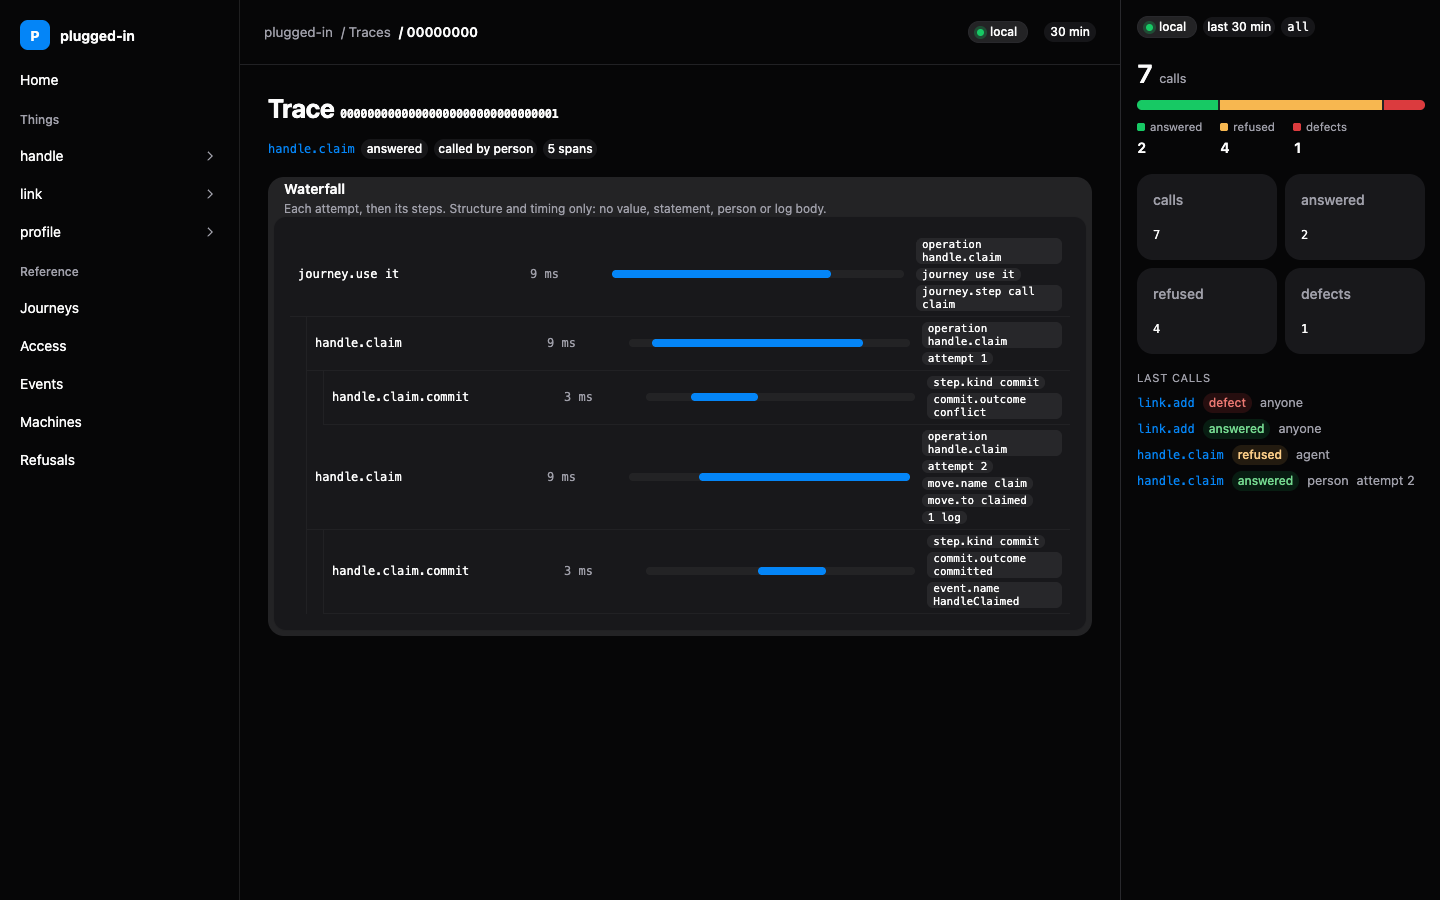
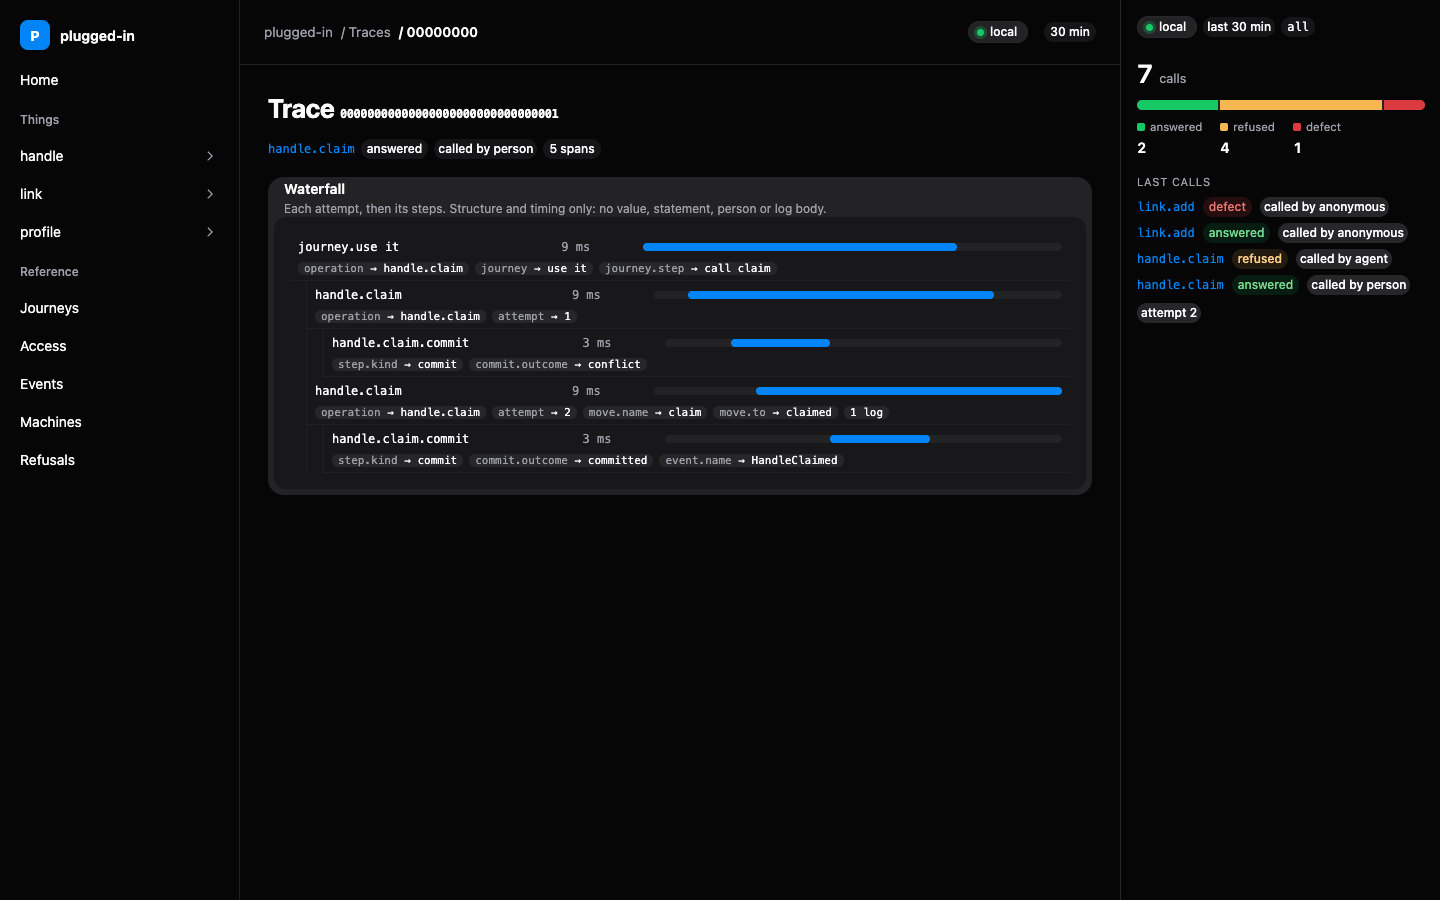
M1.13: review fixes: one meter in the rail, pluralised counts, caller kind and attempt chips, one logbook line, no-proof chips, rendered docs, key-to-value trace attributes, new screenshots

diff --git a/packages/portal/src/modules/pages/internal/home.tsx b/packages/portal/src/modules/pages/internal/home.tsx
@@ -9,7 +9,7 @@ import { Frame } from "./frame.tsx";
 import { Lifecycle } from "./lifecycle.tsx";
 import { link } from "./links.ts";
 import { Banner, noteOf, ProofCell, proofOf } from "./proof.tsx";
-import { none, operationsOf, statOf, statOfAll } from "./stats.ts";
+import { none, operationsOf, plural, statOf, statOfAll } from "./stats.ts";
 
 const who = (op: OperationWire): string =>
   op.allowed.map((a) => (a.kind === "anyone" ? "anyone" : a.kind === "signed-in" ? "anyone signed in" : `${a.kind} ${a.role ?? ""}${a.path === undefined ? "" : ` of its ${a.path}`}`.trim())).join(", or ");
@@ -17,13 +17,20 @@ const who = (op: OperationWire): string =>
 export const Home = ({ data, snapshot }: { readonly data: PageData; readonly snapshot: PortalSnapshot }): ReactElement => {
   const { blueprint, view } = data;
   const release = snapshot.release.state === "available" && snapshot.release.value !== null ? `Released ${snapshot.release.value.version} at ${snapshot.release.value.revision}.` : "";
+  const notesOf = (name: string): ReadonlyArray<string> => snapshot.environments.flatMap((env) => { const p = proofOf(snapshot, name, env); return p === undefined || p.state === "unavailable" ? [] : [noteOf(p, snapshot.candidate.revision)]; }).filter((n) => n !== "");
+  const distinct = new Set(snapshot.operations.flatMap(notesOf));
   const rows = snapshot.operations.map((name) => ({ name, op: blueprint.model.operations[name], s: view?.byOperation[name] ?? none }));
   return (
     <Frame data={data} title="Home" here={{ id: "home" }} crumbs={[blueprint.project, "Home"]} scope={{ id: "all", operations: "all", stat: statOfAll(view) }}>
       <div className="page">
         <header className="page-title">
           <h1>{blueprint.project}</h1>
-          <p className="small">Bundle {snapshot.bundleRevision ?? "unknown"}. Judged against {snapshot.candidate.revision ?? "unknown"} ({snapshot.candidate.source === "logbook" ? "newest revision proved in test" : "this bundle's own model"}). {release} Ledger read: {snapshot.consistency}.</p>
+          <p className="small">{[
+            snapshot.bundleRevision === null ? "Bundle revision not reported." : `Bundle ${snapshot.bundleRevision}.`,
+            snapshot.candidate.revision === null ? "" : `Judged against ${snapshot.candidate.revision} (${snapshot.candidate.source === "logbook" ? "newest revision proved in test" : "this bundle's own model"}).`,
+            release,
+            snapshot.consistency === "checked" ? "Ledger read: checked." : "",
+          ].filter((t) => t !== "").join(" ")}</p>
         </header>
         <Banner snapshot={snapshot} />
         <section className="cards" aria-label="Things">
@@ -34,7 +41,7 @@ export const Home = ({ data, snapshot }: { readonly data: PageData; readonly sna
                 <Widget className={s.defects > 0 ? "thing-card is-red" : "thing-card"}>
                   <Widget.Header>
                     <div className="head-text"><Widget.Title><a href={link.thing(thing.name)}>{thing.name}</a></Widget.Title><Widget.Description>{thing.description || "No description declared."}</Widget.Description></div>
-                    {s.defects > 0 && <Chip size="sm" variant="soft" color="danger">{s.defects} defects</Chip>}
+                    {s.defects > 0 && <Chip size="sm" variant="soft" color="danger">{plural(s.defects, "defect")}</Chip>}
                   </Widget.Header>
                   <Widget.Content>
                     <Lifecycle thing={thing} view={view} compact />
@@ -47,6 +54,7 @@ export const Home = ({ data, snapshot }: { readonly data: PageData; readonly sna
         </section>
         <section>
           <h2 className="group-title">Operations</h2>
+          {distinct.size === 1 && <p className="small muted">{[...distinct][0]}</p>}
           <p className="muted small">Every operation: who may call it, its calls in the window, and the proof the logbook holds for each environment.</p>
           <Grid
             aria-label="Operations"
@@ -60,8 +68,8 @@ export const Home = ({ data, snapshot }: { readonly data: PageData; readonly sna
                 { id: "refused", header: "Refused", width: 90, align: "end" as const, cell: (r: (typeof rows)[number]) => <span className={r.s.refused > 0 ? "mono tone-warning" : "mono"}>{r.s.refused}</span> },
                 { id: "defects", header: "Defects", width: 90, align: "end" as const, cell: (r: (typeof rows)[number]) => <span className={r.s.defects > 0 ? "mono tone-danger" : "mono"}>{r.s.defects}</span> },
               ]),
-              ...snapshot.environments.map((env) => ({ id: `env:${env}`, header: env, minWidth: 130, cell: (r: (typeof rows)[number]) => <ProofCell proof={proofOf(snapshot, r.name, env)} /> })),
-              { id: "notes", header: "Notes", minWidth: 200, cell: (r: (typeof rows)[number]) => <span className="small muted">{snapshot.environments.map((env) => proofOf(snapshot, r.name, env)).flatMap((p) => (p === undefined ? [] : [noteOf(p, snapshot.candidate.revision)])).filter((n) => n !== "").join(" · ")}</span> },
+              ...snapshot.environments.map((env) => ({ id: `env:${env}`, header: `Proof in ${env}`, minWidth: 130, cell: (r: (typeof rows)[number]) => <ProofCell proof={proofOf(snapshot, r.name, env)} /> })),
+              ...(distinct.size > 1 ? [{ id: "notes", header: "Notes", minWidth: 200, cell: (r: (typeof rows)[number]) => <span className="small muted">{notesOf(r.name).join(" · ")}</span> }] : []),
             ]}
           />
         </section>

diff --git a/packages/portal/src/modules/pages/internal/rail.tsx b/packages/portal/src/modules/pages/internal/rail.tsx
@@ -1,8 +1,8 @@
-// The live rail, scoped to the page (design/portal.md, "The live rail"): the window's four counts from `ortho.calls`, and the last calls
-// from the source, one row per trace. Numbers as data in stat blocks, never as a sentence. No window, no numbers.
-import { CallsMeter, Chip, EnvironmentPill, Stat } from "@orthograph/portal-ui";
+// The live rail, scoped to the page (design/portal.md, "The live rail"): the window's counts from `ortho.calls` in one stacked meter
+// (whose numbers carry the data hooks), and the last calls from the source, one row per trace. No window, no numbers.
+import { CallsMeter, Chip, EnvironmentPill } from "@orthograph/portal-ui";
 import type { ReactElement } from "react";
-import type { CallStat, WindowView } from "#modules/window/types.js";
+import type { CallStat, CallerKind, WindowView } from "#modules/window/types.js";
 import { link } from "./links.ts";
 import { minutes } from "./stats.ts";
 
@@ -14,7 +14,9 @@ export interface Scope {
 }
 
 const outcomeTone = { answered: "success", refused: "warning", defect: "danger" } as const;
-const stats = (s: CallStat): ReadonlyArray<readonly [string, number]> => [["calls", s.calls], ["answered", s.answered], ["refused", s.refused], ["defects", s.defects]];
+
+/** Who called, in the words of the page: the derived kind, with `anyone` (the rule that allows it) read as an anonymous caller. */
+export const callerLabel = (kind: CallerKind): string => (kind === "anyone" ? "anonymous" : kind);
 
 export const Rail = ({ view, scope }: { readonly view: WindowView | undefined; readonly scope: Scope }): ReactElement => {
   if (view === undefined) return <div className="rail" data-portal="rail" data-scope={scope.id}><p className="muted small">No live source is wired to this portal, so there are no numbers to show.</p></div>;
@@ -22,14 +24,7 @@ export const Rail = ({ view, scope }: { readonly view: WindowView | undefined; r
   return (
     <div className="rail" data-portal="rail" data-scope={scope.id}>
       <div className="rail-head"><EnvironmentPill name={view.environment} live size="sm" /><Chip size="sm" variant="soft">last {minutes(view.windowMs)}</Chip><Chip size="sm" variant="soft" className="mono">{scope.id}</Chip></div>
-      <CallsMeter split={{ answered: scope.stat.answered, refused: scope.stat.refused, defects: scope.stat.defects }} label={scope.id} />
-      <div className="rail-stats">
-        {stats(scope.stat).map(([name, value]) => (
-          <div key={name} data-portal="stat" data-stat={name} data-value={String(value)}>
-            <Stat><Stat.Header><Stat.Title>{name}</Stat.Title></Stat.Header><Stat.Content><span className="mono">{value.toLocaleString("en-US")}</span></Stat.Content></Stat>
-          </div>
-        ))}
-      </div>
+      <CallsMeter hooks split={{ answered: scope.stat.answered, refused: scope.stat.refused, defects: scope.stat.defects }} label={scope.id} />
       <div>
         <div className="eyebrow">last calls</div>
         {calls.length === 0 && <p className="muted small">No calls in the window.</p>}
@@ -38,8 +33,8 @@ export const Rail = ({ view, scope }: { readonly view: WindowView | undefined; r
             <li key={c.trace} data-portal="last-call" data-trace={c.trace} data-operation={c.operation} data-outcome={c.outcome} data-caller-kind={c.callerKind} data-attempts={String(c.attempts)}>
               <a className="mono" href={link.trace(c.trace)}>{c.operation}</a>
               <Chip size="sm" variant="soft" color={outcomeTone[c.outcome]}>{c.outcome}</Chip>
-              <span className="small muted">{c.callerKind}</span>
-              {c.attempts > 1 && <span className="small muted">attempt {c.attempts}</span>}
+              <Chip size="sm" variant="secondary">called by {callerLabel(c.callerKind)}</Chip>
+              {c.attempts > 1 && <Chip size="sm" variant="secondary">attempt {c.attempts}</Chip>}
             </li>
           ))}
         </ul>

diff --git a/packages/portal/src/modules/pages/internal/trace.tsx b/packages/portal/src/modules/pages/internal/trace.tsx
@@ -7,7 +7,8 @@ import type { WindowSpan, WindowTrace } from "#modules/window/types.js";
 import type { PageData } from "../types.ts";
 import { Frame } from "./frame.tsx";
 import { link } from "./links.ts";
-import { statOfAll } from "./stats.ts";
+import { callerLabel } from "./rail.tsx";
+import { plural, statOfAll } from "./stats.ts";
 
 /** The span attributes the portal may show: declared names, codes, kinds and counts. Everything else is dropped, not hidden. */
 const SHOWN = ["operation", "attempt", "step.kind", "commit.outcome", "move.name", "move.to", "event.name", "refusal", "refusal.code", "journey", "journey.step", "environment", "store"] as const;
@@ -26,8 +27,8 @@ const Row = ({ span, depth, attempt, logs, extent }: { readonly span: WindowSpan
       <span className="mono muted">{span.ms} ms</span>
       <span className="wf-bar" aria-hidden="true"><i className={outcome === "ok" ? undefined : `is-${outcome}`} style={{ left: `${left}%`, width: `${Math.min(width, 100 - left)}%` }} /></span>
       <span className="wf-attrs">
-        {SHOWN.filter((k) => span.attrs[k] !== undefined && typeof span.attrs[k] !== "object").map((k) => <span key={k} className="wf-attr">{k} {String(span.attrs[k])}</span>)}
-        {logs > 0 && <span className="wf-attr">{logs} {logs === 1 ? "log" : "logs"}</span>}
+        {SHOWN.filter((k) => span.attrs[k] !== undefined && typeof span.attrs[k] !== "object").map((k) => <span key={k} className="wf-attr"><span className="wf-key">{k}</span> → {String(span.attrs[k])}</span>)}
+        {logs > 0 && <span className="wf-attr">{plural(logs, "log")}</span>}
       </span>
     </div>
   );
@@ -57,8 +58,8 @@ export const TracePage = ({ data, id, found }: { readonly data: PageData; readon
         <header className="page-title">
           <h1>Trace <span className="mono">{id}</span></h1>
           <div className="props">
-            {call !== undefined && <><a className="mono" href={link.operation(call.operation)}>{call.operation}</a><Chip size="sm" variant="soft">{call.outcome}</Chip><Chip size="sm" variant="soft">called by {call.callerKind}</Chip></>}
-            <Chip size="sm" variant="soft">{spans.length} spans</Chip>
+            {call !== undefined && <><a className="mono" href={link.operation(call.operation)}>{call.operation}</a><Chip size="sm" variant="soft">{call.outcome}</Chip><Chip size="sm" variant="soft">called by {callerLabel(call.callerKind)}</Chip></>}
+            <Chip size="sm" variant="soft">{plural(spans.length, "span")}</Chip>
           </div>
         </header>
         <Widget>

diff --git a/packages/portal-ui/src/modules/styles/internal/ours.ts b/packages/portal-ui/src/modules/styles/internal/ours.ts
@@ -39,6 +39,8 @@ html,body{margin:0;background:var(--background,#0b0b0d)}
 .page-foot{color:var(--muted);font-size:.78rem;margin:0}
 .pill-ok{color:var(--success)}.pill-fail{color:var(--danger)}.pill-old{color:var(--warning)}.pill-none{color:var(--muted)}
 .banner{border:1px solid var(--danger);background:color-mix(in oklab,var(--danger) 12%,transparent);padding:8px 12px;border-radius:10px}
+.doc-body{font-size:.9rem;line-height:1.55;max-width:80ch}.doc-body h1{font-size:1.2rem}.doc-body h2{font-size:1rem;margin-top:1rem}.doc-body table{border-collapse:collapse}.doc-body th,.doc-body td{padding:4px 10px;border-bottom:1px solid var(--separator);text-align:left}.doc-body code{font:12px ui-monospace,Menlo,monospace}
+.no-proof{color:var(--muted)}
 pre.doc{background:var(--surface-secondary);padding:12px;border-radius:10px;overflow:auto;font-size:.8rem}
 /* EnvironmentPill */
 .env-pill{display:inline-flex;align-items:center;gap:7px;height:28px;padding:0 4px 0 10px;border-radius:999px;background:var(--surface-secondary);border:1px solid var(--border);font-size:.82rem;font-weight:500;white-space:nowrap}
@@ -88,13 +90,14 @@ pre.doc{background:var(--surface-secondary);padding:12px;border-radius:10px;over
 .wf{display:flex;flex-direction:column}
 .wf details{margin:0}
 .wf summary{list-style:none;cursor:pointer}
-.wf-row{display:grid;grid-template-columns:minmax(220px,1.2fr) 70px 2fr minmax(120px,1fr);gap:12px;align-items:center;padding:5px 8px;border-bottom:1px solid var(--separator);font-size:.82rem}
+.wf-row{display:grid;grid-template-columns:minmax(220px,1.2fr) 70px 2fr;gap:6px 12px;align-items:center;padding:5px 8px;border-bottom:1px solid var(--separator);font-size:.82rem}
 .wf-children{margin-left:16px;border-left:1px solid var(--separator)}
 .wf-bar{position:relative;height:8px;border-radius:4px;background:var(--surface-secondary)}
 .wf-bar i{position:absolute;top:0;height:100%;border-radius:4px;background:var(--accent)}
 .wf-bar i.is-refused{background:var(--warning)}.wf-bar i.is-defect{background:var(--danger)}
-.wf-attrs{display:flex;flex-wrap:wrap;gap:4px}
-.wf-attr{padding:0 6px;border-radius:6px;background:var(--default);font:11px ui-monospace,Menlo,monospace}
+.wf-attrs{grid-column:1/-1;display:flex;flex-wrap:wrap;gap:4px 6px}
+.wf-attr{white-space:nowrap;padding:0 6px;border-radius:6px;background:var(--default);font:11px ui-monospace,Menlo,monospace}
+.wf-key{color:var(--muted)}
 /* The journey sequence */
 .seq{display:block;max-width:100%;height:auto}
 .seq text{font:12px ui-monospace,Menlo,monospace;fill:var(--foreground)}

diff --git a/packages/portal-ui/src/modules/meters/internal/calls-meter.tsx b/packages/portal-ui/src/modules/meters/internal/calls-meter.tsx
@@ -8,21 +8,23 @@ const parts = [
   { key: "defects", label: "defects", tone: "danger" },
 ] as const;
 const fmt = (n: number): string => n.toLocaleString("en-US");
+const noun = (n: number, one: string, many: string): string => `${fmt(n)} ${n === 1 ? one : many}`;
 
-export const CallsMeter = ({ split, size = "md", legend = true, label }: CallsMeterProps): ReactElement => {
+export const CallsMeter = ({ split, size = "md", legend = true, label, hooks = false }: CallsMeterProps): ReactElement => {
   const total = split.answered + split.refused + split.defects;
-  const aria = `${label ?? "Calls"}: ${fmt(total)} calls, ${fmt(split.answered)} answered, ${fmt(split.refused)} refused, ${fmt(split.defects)} defects`;
+  const aria = `${label ?? "Calls"}: ${noun(total, "call", "calls")}, ${fmt(split.answered)} answered, ${fmt(split.refused)} refused, ${noun(split.defects, "defect", "defects")}`;
+  const hook = (stat: string, value: number): Record<string, string> => (hooks ? { "data-portal": "stat", "data-stat": stat, "data-value": String(value) } : {});
   return (
     <div className={`calls-meter calls-meter--${size}`} role="img" aria-label={aria}>
-      <div className="calls-meter__head"><span className="calls-meter__total">{fmt(total)}</span><span className="calls-meter__unit">calls</span></div>
+      <div className="calls-meter__head" {...hook("calls", total)}><span className="calls-meter__total">{fmt(total)}</span><span className="calls-meter__unit">{total === 1 ? "call" : "calls"}</span></div>
       <div className="calls-meter__track">
         {parts.map((p) => split[p.key] > 0 && <span key={p.key} className={`calls-meter__seg tone-bg-${p.tone}`} style={{ flexGrow: split[p.key], minWidth: 3 }} />)}
       </div>
       {legend && (
         <dl className="calls-meter__legend">
           {parts.map((p) => (
-            <div key={p.key} className={`calls-meter__item${split[p.key] > 0 ? "" : " is-zero"}`}>
-              <dt><i className={`calls-meter__key tone-bg-${p.tone}`} />{p.label}</dt>
+            <div key={p.key} className={`calls-meter__item${split[p.key] > 0 ? "" : " is-zero"}`} {...hook(p.key, split[p.key])}>
+              <dt><i className={`calls-meter__key tone-bg-${p.tone}`} />{p.key === "defects" && split.defects === 1 ? "defect" : p.label}</dt>
               <dd>{fmt(split[p.key])}</dd>
             </div>
           ))}

diff --git a/packages/portal/src/modules/pages/internal/operation.tsx b/packages/portal/src/modules/pages/internal/operation.tsx
@@ -5,6 +5,7 @@ import type { ReactElement, ReactNode } from "react";
 import type { PortalSnapshot } from "#modules/snapshot/types.js";
 import type { OperationWire } from "#modules/wire/types.js";
 import type { PageData } from "../types.ts";
+import { Doc } from "./doc.tsx";
 import { FieldTable } from "./fields.tsx";
 import { Frame } from "./frame.tsx";
 import { link } from "./links.ts";
@@ -53,7 +54,7 @@ export const OperationPage = ({ data, snapshot, op }: { readonly data: PageData;
           <table className="tbl"><thead><tr><th>Declaration</th><th>Hash</th></tr></thead><tbody>{depends.map(([key, hash]) => <tr key={key}><td className="mono">{key}</td><td className="mono">{hash}</td></tr>)}</tbody></table>
           <p><a href={link.thing(op.thing)}>{op.thing}</a></p>
         </Block>
-        {doc !== undefined && <Block title="Docs"><pre className="doc">{doc}</pre></Block>}
+        {doc !== undefined && <Block title="Docs"><Doc text={doc} /></Block>}
       </div>
     </Frame>
   );

diff --git a/packages/portal/src/modules/pages/internal/proof.tsx b/packages/portal/src/modules/pages/internal/proof.tsx
@@ -1,5 +1,6 @@
 // Proof as the portal reads it from the logbook: one cell per environment, in the words of its state. Only a recorded pass carries a
 // tick; a failure, a change and a gap read as what they are. (The proof tab and the verdict matrix are M1.13's later pass.)
+import { Chip } from "@orthograph/portal-ui";
 import type { ReactElement } from "react";
 import type { PortalProof, PortalSnapshot } from "#modules/snapshot/types.js";
 
@@ -13,6 +14,7 @@ const word: Readonly<Record<PortalProof["state"], readonly [string, (env: string
 
 export const ProofCell = ({ proof }: { readonly proof: PortalProof | undefined }): ReactElement | null => {
   if (proof === undefined) return null;
+  if (proof.state === "unproven" || proof.state === "unavailable") return <Chip size="sm" variant="soft" className="no-proof">no proof</Chip>;
   const [tone, text] = word[proof.state];
   return <span className={`pill-${tone}`}>{text(proof.environment)}</span>;
 };

diff --git a/packages/portal/src/modules/pages/internal/thing.tsx b/packages/portal/src/modules/pages/internal/thing.tsx
@@ -4,6 +4,7 @@ import { Chip, Grid, Widget } from "@orthograph/portal-ui";
 import type { ReactElement, ReactNode } from "react";
 import type { OperationWire, ThingWire } from "#modules/wire/types.js";
 import type { PageData } from "../types.ts";
+import { Doc } from "./doc.tsx";
 import { FieldTable } from "./fields.tsx";
 import { Frame } from "./frame.tsx";
 import { Lifecycle } from "./lifecycle.tsx";
@@ -81,7 +82,7 @@ export const ThingPage = ({ data, thing }: { readonly data: PageData; readonly t
           </Block>
         </div>
         {thing.roles.length > 0 && <Block title="Roles"><ul className="plain">{thing.roles.map((r) => <li key={r} className="mono">{r}</li>)}</ul></Block>}
-        {doc !== undefined && <Block title="Docs"><pre className="doc">{doc}</pre></Block>}
+        {doc !== undefined && <Block title="Docs"><Doc text={doc} /></Block>}
       </div>
     </Frame>
   );

diff --git a/packages/portal-ui/src/modules/meters/meters.test.ts b/packages/portal-ui/src/modules/meters/meters.test.ts
@@ -17,6 +17,14 @@ it("CallsMeter shows the total and each outcome's count, and only the segments t
   expect(html).not.toContain("calls-meter__seg tone-bg-danger");
 });
 
+it("CallsMeter pluralises from the count and can carry its numbers as data hooks", () => {
+  const html = renderToStaticMarkup(createElement(CallsMeter, { split: { answered: 0, refused: 0, defects: 1 }, hooks: true }));
+  expect(html).toContain("1 defect");
+  expect(html).not.toContain("1 defects");
+  expect(html).toContain('data-stat="calls"');
+  expect(html).toContain('data-value="1"');
+});
+
 it("EnvironmentPill marks a live one, and Move draws a creating move from `new`", () => {
   expect(renderToStaticMarkup(createElement(EnvironmentPill, { name: "local", live: true }))).toContain("is-live");
   expect(renderToStaticMarkup(createElement(Move, { from: [], to: ["claimed"] }))).toContain("new");

diff --git a/packages/portal/src/modules/pages/internal/stats.ts b/packages/portal/src/modules/pages/internal/stats.ts
@@ -16,4 +16,7 @@ export const statOf = (view: WindowView | undefined, operations: ReadonlyArray<s
 /** Everything the window counted, including operations the model no longer declares. */
 export const statOfAll = (view: WindowView | undefined): CallStat => (view === undefined ? none : total(Object.values(view.byOperation)));
 
+/** A count and its noun, pluralised from the count: "1 defect", "2 defects". */
+export const plural = (n: number, one: string, many = `${one}s`): string => `${n.toLocaleString("en-US")} ${n === 1 ? one : many}`;
+
 export const minutes = (windowMs: number): string => `${Math.round(windowMs / 60_000)} min`;

diff --git a/packages/portal/src/modules/pages/internal/doc.tsx b/packages/portal/src/modules/pages/internal/doc.tsx
@@ -1,0 +1,7 @@
+// A generated doc, shown as the page it is: its Markdown rendered, without the `Generated from … Do not edit.` comment that opens it.
+import { Markdown } from "@orthograph/portal-ui";
+import type { ReactElement } from "react";
+
+export const Doc = ({ text }: { readonly text: string }): ReactElement => (
+  <div className="doc-body"><Markdown>{text.replace(/^<!--.*?-->\s*/s, "")}</Markdown></div>
+);

diff --git a/packages/portal-ui/src/modules/meters/types.ts b/packages/portal-ui/src/modules/meters/types.ts
@@ -15,6 +15,8 @@ export interface CallsMeterProps {
   readonly legend?: boolean;
   /** What the meter is about, for the screen reader ("handle"). */
   readonly label?: string;
+  /** Mark the numbers with `data-portal="stat"` (`data-stat`, `data-value`) for a page that carries its data in attributes. */
+  readonly hooks?: boolean;
 }
 
 export interface EnvironmentPillProps {
